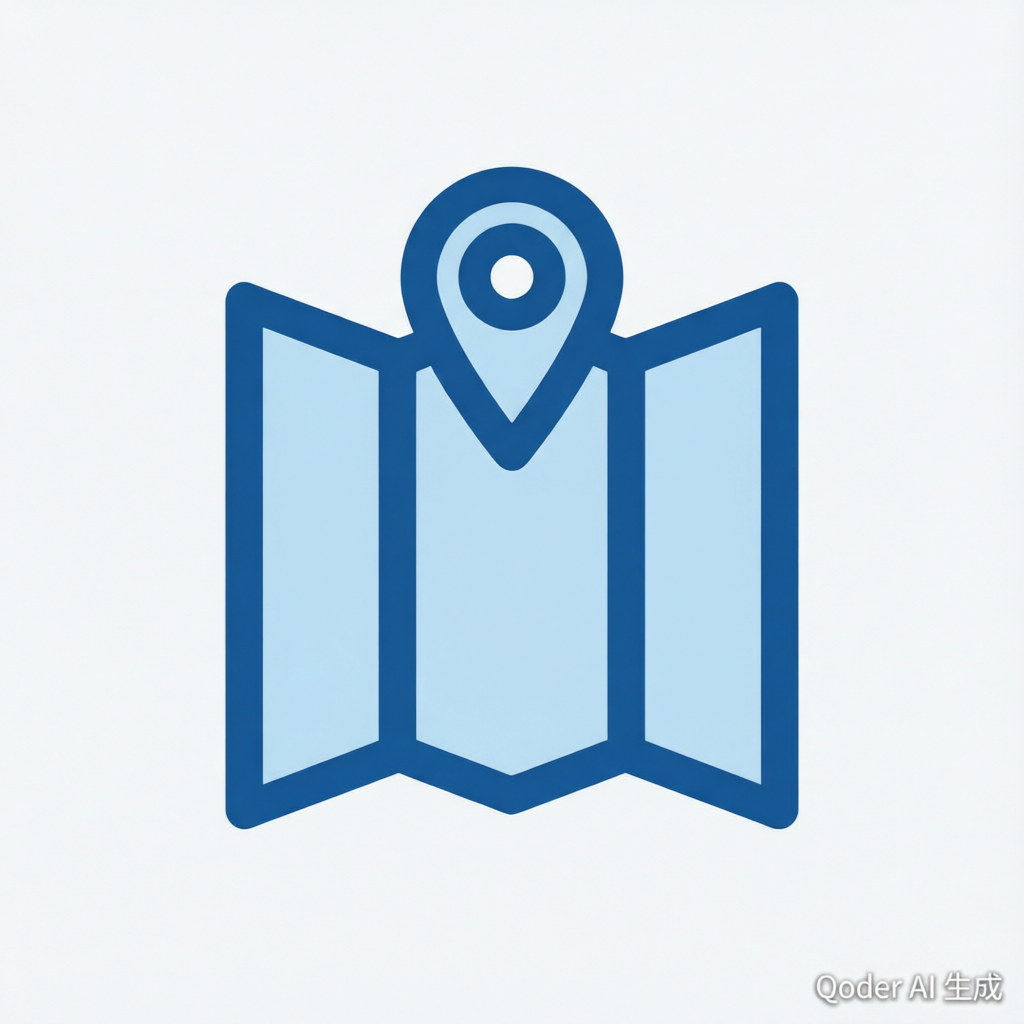
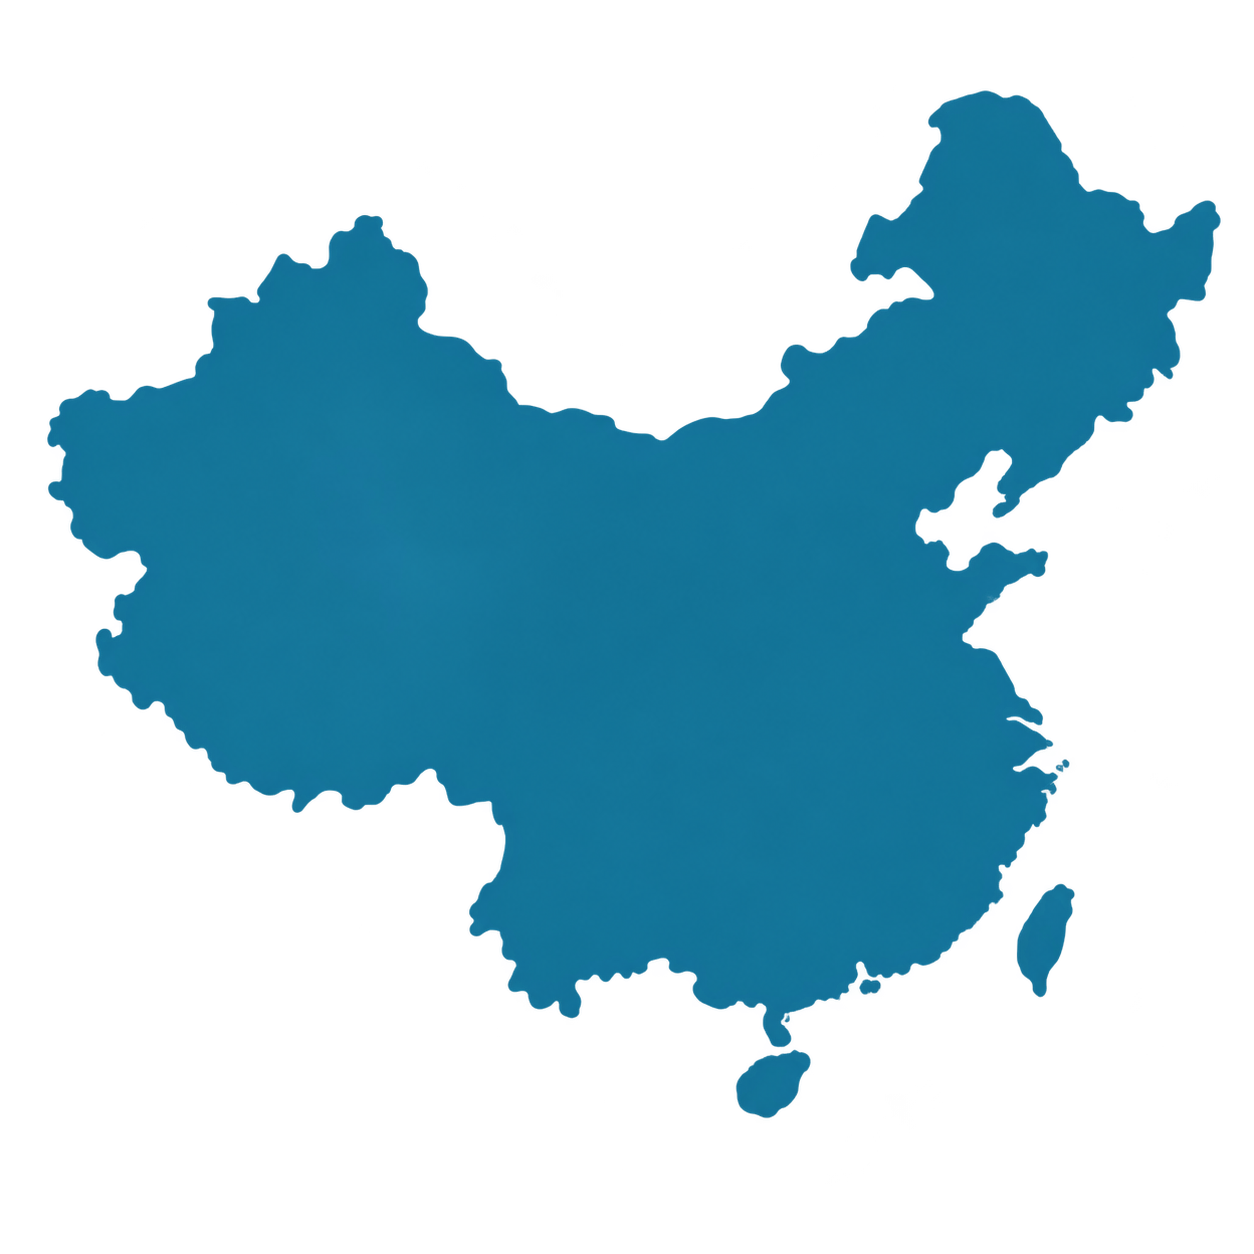
v2.2.9.0: 优化联动并更新中国地图图标

diff --git a/src/visual.ts b/src/visual.ts
@@ -44,6 +44,11 @@ interface MapFormatConfig {
     maxValue: number;
 }
 
+interface FilterTarget {
+    table: string;
+    column: string;
+}
+
 export class Visual implements IVisual {
     private target: HTMLElement;
     private chartContainer: HTMLElement;
@@ -87,6 +92,8 @@ export class Visual implements IVisual {
     private rawCatNames: string[][] = [];
     private rawMeasureValues: number[] = [];
     private rawTable: DataViewTable | null = null;
+    private provinceFilterTarget: FilterTarget | null = null;
+    private cityFilterTarget: FilterTarget | null = null;
 
     private tooltipColumns: Array<{ displayName: string; values: any[]; formatString: string }> = [];
     private measureDisplayName: string = "数值";
@@ -228,6 +235,10 @@ export class Visual implements IVisual {
             }
             this.rawCatNames.push(names);
         }
+        const provinceCategory = categories.find((category) => !!category.source.roles?.province);
+        const cityCategory = categories.find((category) => !!category.source.roles?.city);
+        this.provinceFilterTarget = this.createFilterTarget(provinceCategory?.source);
+        this.cityFilterTarget = this.createFilterTarget(cityCategory?.source);
 
         // 提取度量值 (values[0])
         const measureSource = values[0]?.source || values[0]?.values?.[0]?.source;
@@ -321,6 +332,8 @@ export class Visual implements IVisual {
 
         this.rawTable = table;
         this.rawCatColumns = [];
+        this.provinceFilterTarget = this.createFilterTarget(columns[provinceIndex]);
+        this.cityFilterTarget = cityIndex >= 0 ? this.createFilterTarget(columns[cityIndex]) : null;
         this.updateMeasureMetadata(columns[measureIndex]);
         const provinceNames = rows.map((row) => String(row[provinceIndex] ?? ""));
         const cityNames = cityIndex >= 0 ? rows.map((row) => String(row[cityIndex] ?? "")) : [];
@@ -1056,11 +1069,12 @@ export class Visual implements IVisual {
 
         const adcode = await this.resolveAdcode(provinceName);
         if (!adcode) return;
+        // 尽早通知 Power BI 联动，让其他视觉的查询与地图加载/渲染并行执行。
+        const linkagePromise = this.selectProvinceMulti(normProvince);
         this.currentDrillProvinceName = provinceName;
         this.currentDrillProvinceAdcode = adcode;
         await this.loadAndRenderDrillMap(adcode, provinceName, 2, cityDataPoints, minVal, maxVal);
-        // 联动表格：多选该省全部数据行，使表格过滤到整个省（数据指纹守卫保证地图不受影响）
-        await this.selectProvinceMulti(normProvince);
+        await linkagePromise;
     }
 
     /**
@@ -1100,14 +1114,15 @@ export class Visual implements IVisual {
 
         const adcode = await this.resolveAdcode(provinceName);
         if (!adcode) return;
+        // 先发出联动请求，避免其他视觉等待区县地图完成渲染后才开始查询。
+        const linkagePromise = this.selectProvinceMulti(normProvince);
         // 直辖市无地级层，面包屑的"省份"层即该直辖市本身
         this.level2ParentName = provinceName;
         this.currentDrillProvinceName = provinceName;
         this.currentDrillProvinceAdcode = adcode;
         this.currentDrillIsMunicipality = true;
         await this.loadAndRenderDrillMap(adcode, provinceName, 3, districtDataPoints, minVal, maxVal);
-        // 联动表格：多选该直辖市全部数据行
-        await this.selectProvinceMulti(normProvince);
+        await linkagePromise;
     }
 
     private async drillDownToCity(cityName: string): Promise<void> {
@@ -1154,11 +1169,12 @@ export class Visual implements IVisual {
             await this.crossFilter(cityName);
             return;
         }
+        // 先发出联动请求，地图资源解析和渲染不再阻塞其他视觉开始刷新。
+        const linkagePromise = this.selectCityMulti(cityName);
         this.currentDrillIsMunicipality = false;
         this.currentDrillProvinceName = this.findProvinceOfCity(cityName) || this.currentDrillProvinceName;
         await this.loadAndRenderDrillMap(adcode, cityName, 3, districtDataPoints, minVal, maxVal);
-        // 联动表格：多选该市全部数据行，使表格过滤到整个市
-        await this.selectCityMulti(cityName);
+        await linkagePromise;
     }
 
     private async crossFilter(name: string): Promise<void> {
@@ -1172,6 +1188,11 @@ export class Visual implements IVisual {
     private async selectProvinceMulti(normProvince: string): Promise<void> {
         if (this.rawCatNames.length < 1) return;
         const provinceNames = this.rawCatNames[0];
+        const provinceName = provinceNames.find(
+            (name) => MapDataService.normalizeRegionName(name) === normProvince
+        );
+        if (provinceName && await this.applyHierarchyFilter(provinceName)) return;
+
         const ids: powerbi.visuals.ISelectionId[] = [];
         for (let i = 0; i < provinceNames.length; i++) {
             if (MapDataService.normalizeRegionName(provinceNames[i]) !== normProvince) continue;
@@ -1186,6 +1207,14 @@ export class Visual implements IVisual {
         if (this.rawCatNames.length < 2) return;
         const cityNames = this.rawCatNames[1];
         const normCity = MapDataService.normalizeRegionName(cityName);
+        const cityIndex = cityNames.findIndex(
+            (name) => MapDataService.normalizeRegionName(name) === normCity
+        );
+        if (cityIndex >= 0) {
+            const provinceName = this.rawCatNames[0]?.[cityIndex];
+            if (provinceName && await this.applyHierarchyFilter(provinceName, cityNames[cityIndex])) return;
+        }
+
         const ids: powerbi.visuals.ISelectionId[] = [];
         for (let i = 0; i < cityNames.length; i++) {
             if (MapDataService.normalizeRegionName(cityNames[i]) !== normCity) continue;
@@ -1193,6 +1222,62 @@ export class Visual implements IVisual {
             if (id) ids.push(id);
         }
         await this.applyDrillSelection(ids);
+    }
+
+    /**
+     * 用一到两个字段过滤条件替代按明细行批量多选。
+     * 对大省份而言，宿主需要处理的身份数量由明细行数降为常量级。
+     */
+    private async applyHierarchyFilter(provinceName: string, cityName?: string): Promise<boolean> {
+        if (!this.provinceFilterTarget || (cityName && !this.cityFilterTarget)) return false;
+
+        const filters: any[] = [this.createBasicFilter(this.provinceFilterTarget, provinceName)];
+        if (cityName && this.cityFilterTarget) {
+            filters.push(this.createBasicFilter(this.cityFilterTarget, cityName));
+        }
+
+        this.applyingDrillSelection = true;
+        try {
+            if (this.selectionManager.getSelectionIds().length > 0) {
+                await this.selectionManager.clear();
+            }
+            this.drillSelectionActive = false;
+            this.host.applyJsonFilter(filters, "general", "filter", powerbi.FilterAction.merge);
+            return true;
+        } catch (error) {
+            console.warn("[ChinaMap] 应用层级过滤失败，回退到行选择:", error);
+            return false;
+        } finally {
+            this.applyingDrillSelection = false;
+        }
+    }
+
+    private createBasicFilter(target: FilterTarget, value: string): any {
+        return {
+            $schema: "https://powerbi.com/product/schema#basic",
+            filterType: 1,
+            target,
+            operator: "In",
+            values: [value]
+        };
+    }
+
+    /** 从 Power BI queryName 提取 Basic Filter 所需的表名和列名。 */
+    private createFilterTarget(column?: DataViewMetadataColumn): FilterTarget | null {
+        const queryName = column?.queryName?.trim();
+        if (!queryName) return null;
+
+        const bracketMatch = queryName.match(/^'?(.+?)'?\[([^\]]+)\]$/);
+        if (bracketMatch) {
+            return { table: bracketMatch[1].replace(/^'|'$/g, ""), column: bracketMatch[2] };
+        }
+
+        const separator = queryName.lastIndexOf(".");
+        if (separator <= 0 || separator >= queryName.length - 1) return null;
+        return {
+            table: queryName.slice(0, separator).replace(/^'|'$/g, ""),
+            column: queryName.slice(separator + 1).replace(/^\[|\]$/g, "")
+        };
     }
 
     /** 应用下钻联动并记录选择状态，用于识别 Power BI 视觉对象头的“清除选择”。 */
@@ -1388,6 +1473,7 @@ export class Visual implements IVisual {
         this.resetDrillTracking();
         this.lastRenderedLevel = 1;
         void this.selectionManager.clear();
+        this.host.applyJsonFilter(null, "general", "filter", powerbi.FilterAction.remove);
         const data = this.level1DataPoints.length > 0 ? this.level1DataPoints : this.currentDataPoints;
         if (data.length > 0) {
             const state = this.buildRestoreState(1, "", data);

diff --git a/README.md b/README.md
@@ -29,6 +29,8 @@
 
 ## 版本历史
 
+- **v2.2.9.0** — 优化下钻联动的触发时序：省/市过滤请求在地图资源解析和 SVG 重绘之前提交，使其他视觉对象的查询与地图渲染并行启动，减少“地图已下钻但其他图表迟迟未联动”的等待感；视觉对象图标更新为透明背景的中国地图轮廓
+- **v2.2.8.0** — 优化地图与其他视觉对象的联动性能：省/市下钻改用常量级的 Power BI 字段过滤条件，替代按底层明细行批量提交大量 selectionId；省级联动由 N 个行身份降为 1 个省份条件，城市级固定为省份+城市 2 个条件，并保留旧逻辑作为兼容回退
 - **v2.2.7.0** — 接入 Power BI 原生增强型工具提示，悬停区域时可由宿主显示匹配目标页的“钻取”操作；修复进入城市或区县层级后“工具提示”角色中的附加指标未完整显示；关闭 ECharts 自绘提示框，避免与原生提示框重复
 - **v2.2.6.0** — 修复下钻后颜色失效：当区域内只有一个数据点或所有值相等（如周环比%仅一市有值、其余为 BLANK）时，色阶范围 min==max 退化导致整幅地图渲染成同一中间色，现在自动扩展范围恢复渐变；无数据区域不再误显示"0"标签（回退为区域名称）；visualMap 范围出现相等/颠倒时回退自动范围；聚合时跳过 NaN 度量值
 - **v2.2.5.0** — 完善下钻与其他图表的联动：支持仅省份、省份+城市、省份+城市+区县三种字段配置；叶子层取消选中后自动恢复父级区域联动，避免地图保持下钻而其他图表跳回全国；数据指纹改为校验实际分类、度量和工具提示内容
